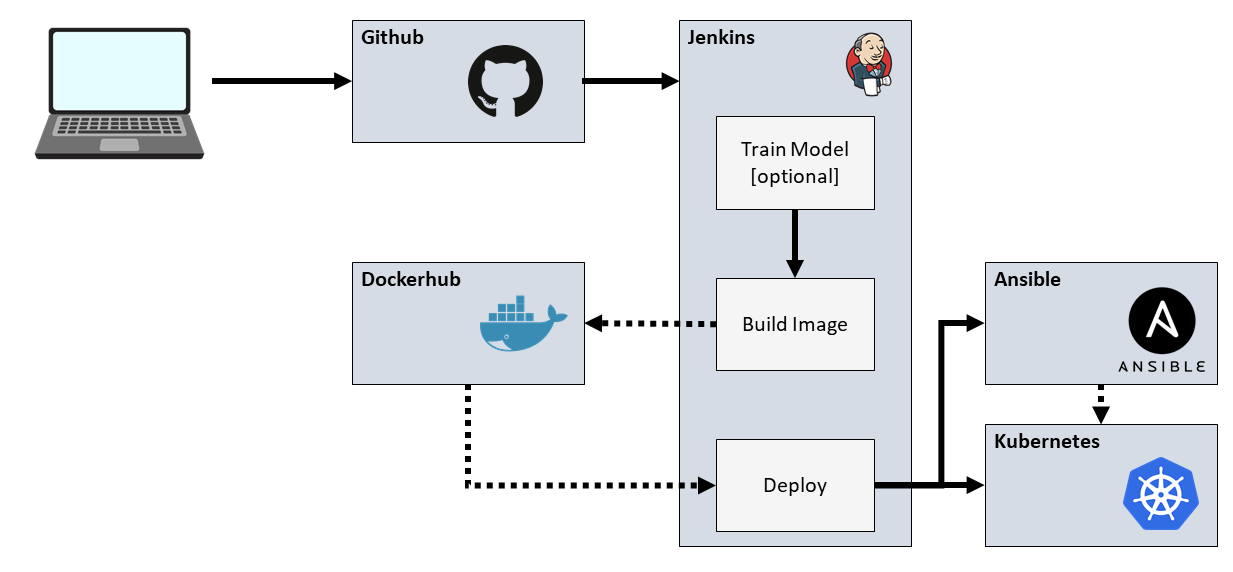
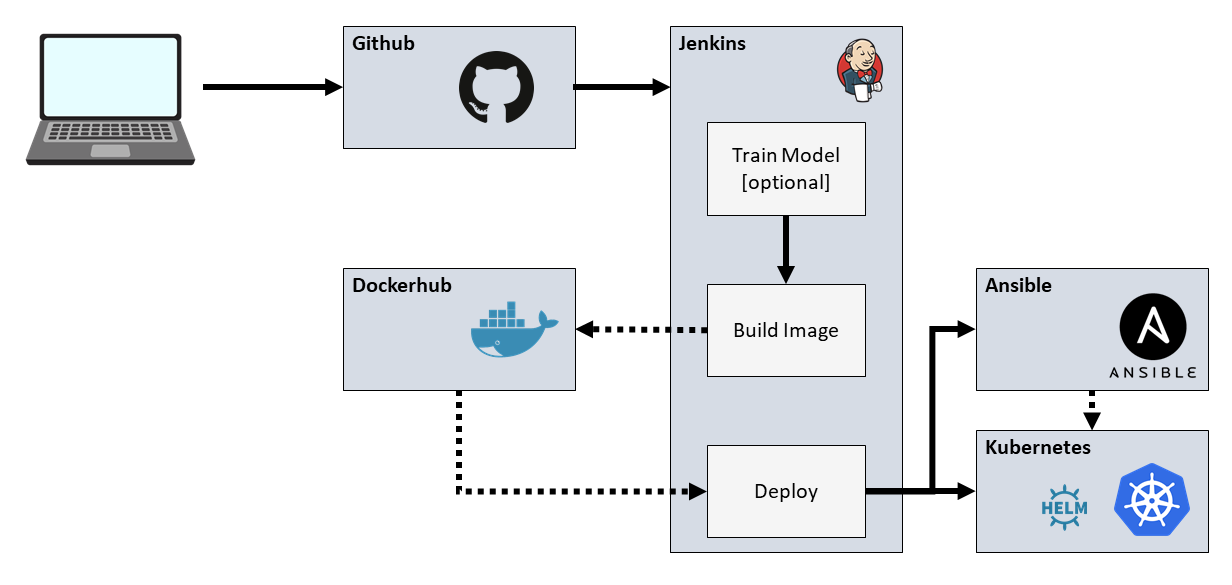
chore: add documentation

Changed region(s): [[0.0, 0.0297, 0.987, 0.9808]]

diff --git a/README.md b/README.md
@@ -2,25 +2,28 @@
 
 ## Project
 The goal of this project is to propose a machine learning template for simple machine learning use cases.
+Furthermore, this project serves as capstone project to Udacity's Cloud DevOps Nanodegree.
 
+## Motivation
 Typical roles which are involved in devoloping and deploying a machine learning model are Data Engineers, Data Scientists and ML-Engineers.
-Data Engineers connect different data sources and make the data easily accessible to the Data Scientist, who uses the Data to develop the final model architecure. After the Data Scientist is happy with the performance of the model, it is ready to be deployed to production. The ML-Engineer then takes the model and bakes it into a web service and deploys it to production.
+Data Engineers connect different data sources and make the data easily accessible to the Data Scientist, who uses the Data to develop the final model architecture. After the Data Scientist is happy with the performance of the model, it is ready to be deployed to production. The ML-Engineer then takes the model and bakes it into a web service and deploys it to production.  
 
-This machine learning lifecycle (which is heavily inspired by uber) shows the process from defining the machine learning problem to operate the model in production.
-![alt text](docs/ml-lifecycle.png "Machine Learning Lifecycle")
+![alt text](docs/ml-lifecycle.png "Machine Learning Lifecycle")  
+*Machine Learning Lifecyle (heavily inspired by [uber](https://mc.ai/doing-machine-learning-the-uber-way-five-lessons-from-the-first-three-years-of-michelangelo/))*
 
-The idea is to have a reusable project and code structure
-This template is comprised of 2 sub-templates. 
-This first sub-template is about how to organize the code, which is created during the creation of the machine learning model.
-The second sub-template is about deploying the model as microservice.
+It's assumed that the Data Scientist want to get his/her data in an easy way without thinking to much how the data are actually accessed.
+The ML-Engineer in turn probably don't want to know every detail about the architecture of the given machine learning model.
+So, there must be an interface between each of this roles, which hides the internal working of the former roles working result.
+Proposing these interfaces is one of this projects goals.
 
-This project also serves as capstone project of Udacity's Cloud DevOps Nanodegree.
+When it comes to deploying a machine learning model, it shouldn't matter if the model predict dog races, types of flowers or anything else. There must be some processes which train the model, embed the model into a web service, build a docker image and deploy this image to a production environment.
+The second goal of this project is to build a reusable pipeline which deploys the model to production.
 
 ## Files & Folders
 **ansible**: contains all files, which are required to setup the initial infrastructure  
 **dockerfiles**: contains Dockerfiles and build scripts to build a runtime image which is used in the deployment pipelines and the production image which  contains the final web service  
 **docs**: contains files/images used for documentation  
-**helm**: contains a helm chart, which is used to deploy the web service to a kubernetes cluster  
+**helm**: contains a helm chart, which is used to deploy the web service to a kubernetes cluster. Since the goal is to create a reusable template, the k8s ressources should not be hard-coded into a yaml file. Helm brings a template engine which gives the possibility to use Variables which could be stored in a central project configuration file.  
 **jenkins**: contains all Jenkinsfiles and required helper files which are needed during each stage  
 **model_bin**: contains the model binary  
 **tests**: contains test requests  
@@ -28,16 +31,11 @@ This project also serves as capstone project of Udacity's Cloud DevOps Nanodegre
 **main.py**: the web service  
 
 
-## Project Setup
-### Infrastructure & Tools
-![alt text](docs/ml-template-project-architecture.png "Infrastructure Setup")
-Github will serve as single source of truth. 
-Jenkins is used as CI/CD Tool. This project contains 3 Jenkinspipelines. The first one will train a machine learning model. The second one
-Jenkins is used as CI/CD Tool, which is linked to github. It gets all neccessary files from there and runs   
-
-
+## Infrastructure
+![alt text](docs/ml-template-project-architecture.png "Infrastructure Setup")  
 **Github**: The single source of truth. Here, all project related file are stored (source code but also configuration files, dockerfiles, helm charts, build scripts, and so on)  
 **Jenkins**: Jenkins is used as CI/CD Tool.  
-**Docker Hub**: A registry where all Docker Images are stored.  
-**Ansible**: A configuration management tool. Here, it is used to set up a Microk8s cluster on the target machine.  
+**Docker Hub**: Every artifact, which is build within the Jenkins pipeline should be stored in a central registry. For docker images Docker Hub is used.  
+**Ansible**: A configuration management tool. Here, it is used to set up a Microk8s cluster on the target machine.
+**Helm**: Helm is the package manager for kubernetes. It also brings a templating engine, which gives us the possibility to use variables in the k8s ressource definition files. This way it is possible to use variables from a central configuration file.    
 **Kubernetes**: k8s is used as deployment target for the final docker image.  
